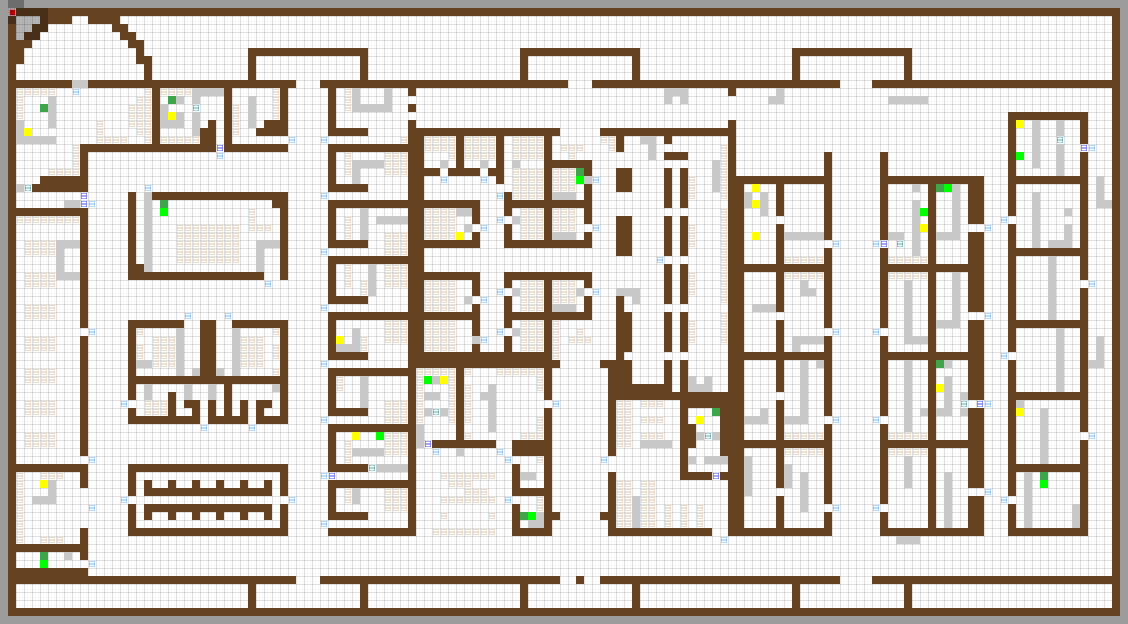
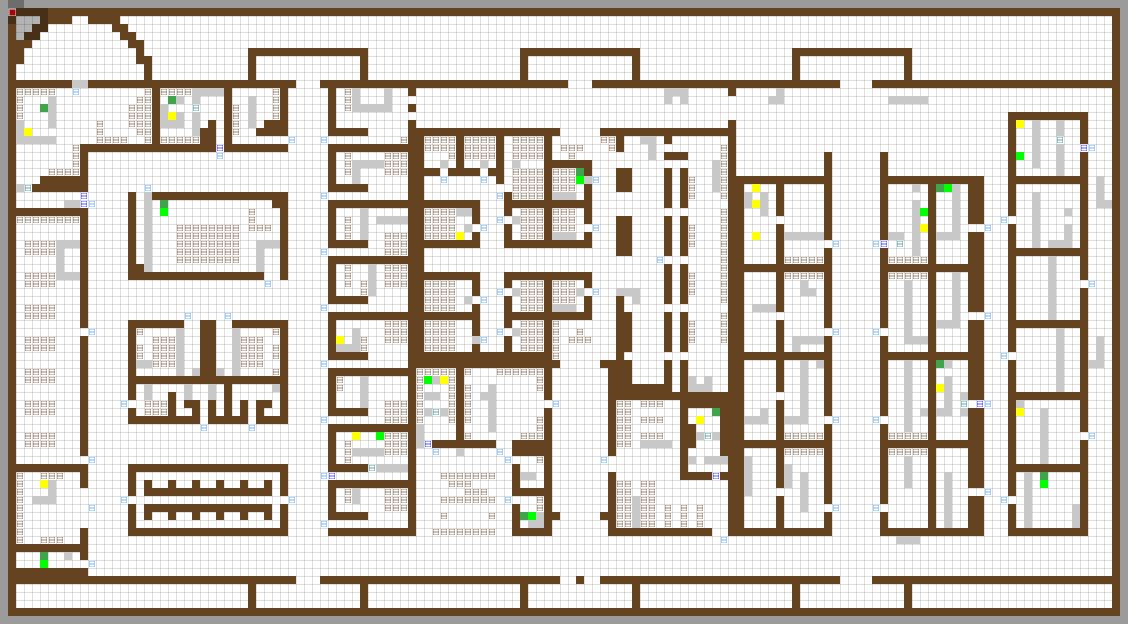
Change BOX = 255 color from light brown to dark brown
- Updated color mapping in index_mapping.py: changed 255 from 'inv_brown' to 'inv_darkbrown'
- Updated comment in map_parser_for_excel.py: changed from 'lighter brown' to 'dark brown'
- Regenerated all map files with updated color mapping
- Regenerated visualization PNG files showing dark brown boxes

diff --git a/gym_minigrid/map_parser_for_excel.py b/gym_minigrid/map_parser_for_excel.py
@@ -69,7 +69,7 @@ WALL = 4            # Default wall
 WALL_HEAVY = 30     # Heavy wall
 WALL_LIGHT = 31     # Light grey rubble wall
 LAVA = 9            # Hazard (red)
-BOX = 255           # Generic object (lighter brown)
+BOX = 255           # Generic object (dark brown)
 BOX_LIGHT_BLUE = 11 # Light-blue plate (P)
 BOX_DARK_BLUE = 12  # Dark-blue object (D)
 BOX_RED = 13        # Red object if needed (not used for X)

diff --git a/gym_minigrid/index_mapping.py b/gym_minigrid/index_mapping.py
@@ -270,7 +270,7 @@ minigrid_index_mapping = {
             82  :    'inv_green',        # B: green
             83  :    'inv_yellow',       # C: yellow
 
-            255 :    'inv_brown',
+            255 :    'inv_darkbrown',
             11  :    'inv_blue2',
             12  :    'inv_blue',
             13  :    'inv_red',
